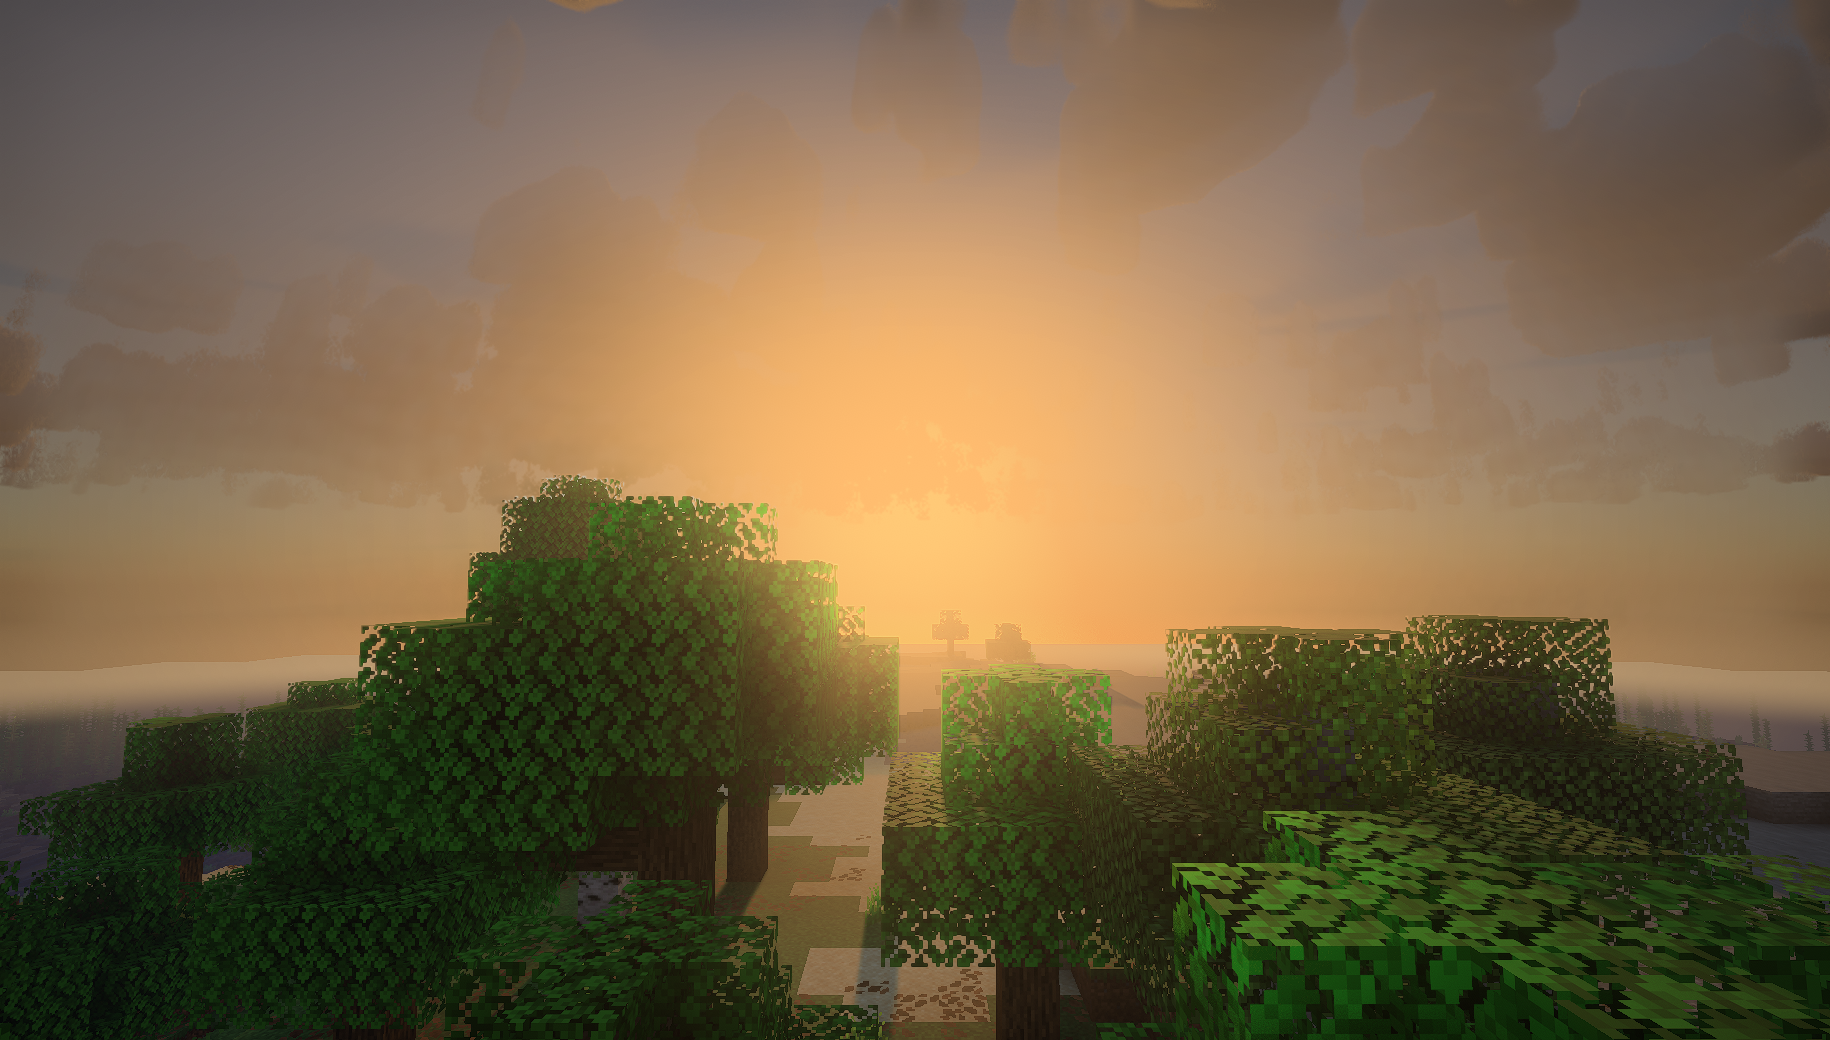
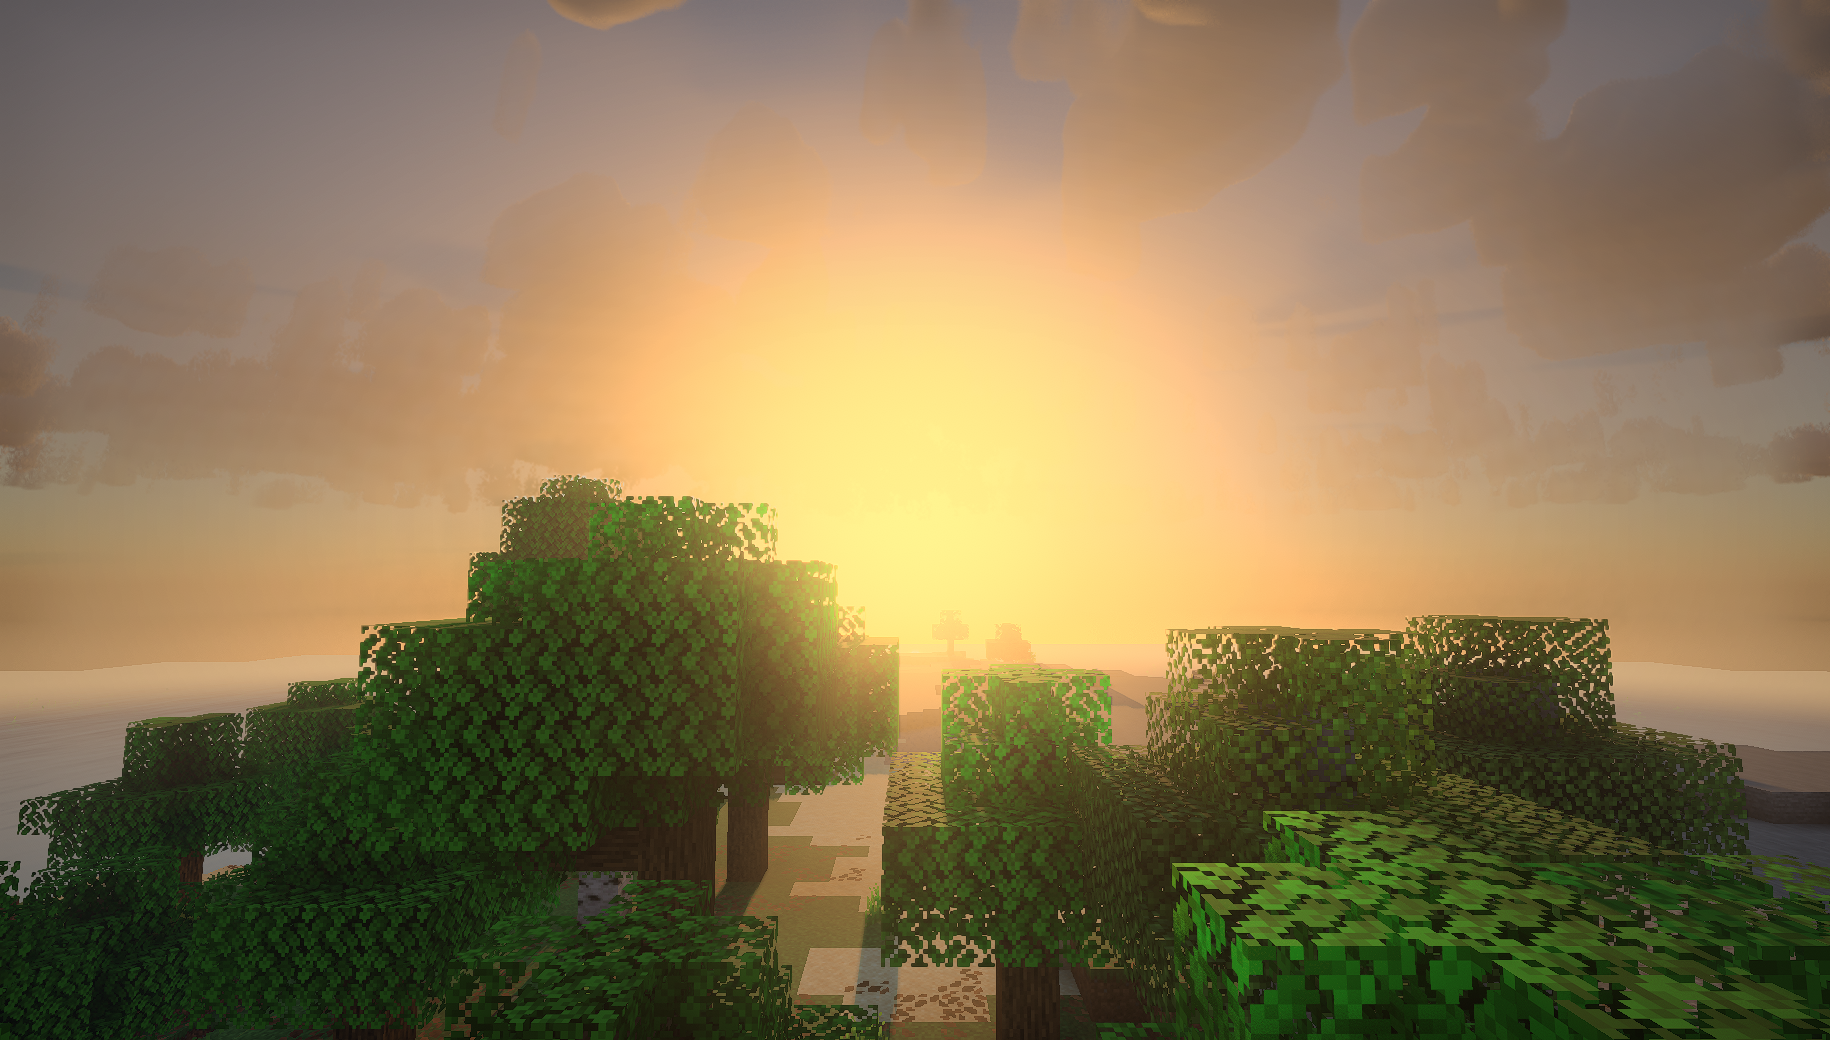
11: exposición calibrada al objetivo de A (día 146,7, noche 17,6) y Reinhard sobre la luminancia
Decisiones de la especificación (0fcece2). Prueba del fílmico con el cenit en
0,4–0,6: sigue desaturado (documentado). Los puntos oscuros del agua son
partículas del juego.

diff --git a/docs/efectos/exposicion-tonemap-gradacion.md b/docs/efectos/exposicion-tonemap-gradacion.md
@@ -22,7 +22,10 @@ en medio el TAA sigue recibiendo la composición en `previous`.
   el primer fotograma o tras una pausa, la medida sin mezclar.
 - **Curva:** `k / ln(L + 1 + c)` con k = 0,2 y c = 0,002: E ≈ 3,2 de día (L medida ≈ 0,06) y tope ≈ 100 cuando L →
   0. Medido en el juego: L ≈ 0,0625 de día y ≈ 0,0094 de noche.
-- **Mezcla con la exposición previa (desviación, duda para A):** la noche medida es solo ~6,6 veces más oscura
+- **Calibración (decisión de A, `0fcece2`):** objetivo de brillo medio de la imagen final, medido como media del
+  cuarto central de la pantalla (por la viñeta): día ≈ 146/255 y noche ≈ 17–18/255. Ajustado con la exposición
+  previa (`OPC_EV_DIA` 3,1 y `OPC_EV_NOCHE` 5,6), que entra en la media: medido **146,7 de día y 17,6 de noche**.
+- **Mezcla con la exposición previa (aceptada por A):** la noche medida es solo ~6,6 veces más oscura
   que el día (la niebla iluminada por la luna y la aurora suben la media), y ninguna curva compresiva puede dar
   más de esa razón de exposición: con la automática sola la noche salía casi negra (E ≈ 18 frente a ≈ 104 de la
   previa analítica, que se había afinado con las referencias). La exposición final es la media en log de la
@@ -44,10 +47,12 @@ tonos → saturación y contraste → sRGB → tramado.
 - **Nitidez** a la manera de CAS (AMD 2019) con cantidad 0,35, **al principio** sobre `previous` en espacio
   comprimido: la pasada final no puede leer su propio resultado, y la imagen es HDR.
 - **Mapeo de tonos:** opción con fílmico (Hejl-Burgess-Dawson, devuelto a lineal para que todos tengan la misma
-  firma), ACES (Narkowicz) y Reinhard sobre el canal máximo. **Por defecto Reinhard (desviación):** el fílmico y
-  el ACES llevan el cielo de día a un blanco grisáceo (su hombro desatura) y la especificación pide que los
-  brillos no salten a blanco; el Reinhard sobre el canal máximo conserva tono y saturación (comparados en la
-  misma vista). Sin AgX.
+  firma), ACES (Narkowicz) y Reinhard extendido **sobre la luminancia**. **Por defecto Reinhard** (aceptado por A
+  como provisional, con la condición de ir sobre la luminancia y que el día no quede plano). Antes iba sobre el
+  canal máximo; sobre la luminancia el cielo sale más azul y luminoso y la hierba más viva (comparados en la misma
+  vista). **Prueba que pidió A** con el fílmico y la exposición bajando hasta que el cenit quedara en 0,4–0,6:
+  con −2 pasos el cenit vale (0,56; 0,61; 0,69), luminancia 0,6, y sigue azul grisáceo, mucho menos saturado que
+  con el Reinhard, y la hierba más oscura: no era solo la exposición, el hombro del fílmico desatura. Sin AgX.
 - **Saturación y contraste** (opciones −1…+1, 0) después del mapeo: `mix(luma, c, 1 + s)` y potencia alrededor de
   0,18 con exponente `1 + 0,5·contraste`.
 - **Tramado** triangular de ±1 nivel con dos canales del ruido azul.

diff --git a/docs/observaciones-del-gestor.md b/docs/observaciones-del-gestor.md
@@ -115,3 +115,10 @@ Ventana bien cerrada. Las tres desviaciones del 10–11 (exposición mezclada, R
 al cuadrado) están con A: dejarlas así hasta que responda. La cuarta vista de `hoja-imagen.png` estaba negra (era
 la casilla vacía de una hoja 2×2 con tres capturas): rehecha con la cueva construida con `fill`, como sugirió el
 gestor.
+
+## 2026-11-02 — revisión de 05eba4f y 57da59b
+
+- Hoja del agua bien. Puntitos oscuros en `hoja-agua.png`: comprobado que son partículas del juego.
+- Decisiones de A (`0fcece2`): exposición con la media en log aceptada, objetivo día ≈ 146/255 y noche ≈ 17–18/255
+  medido en el centro (hecho: 146,7 y 17,6); Reinhard provisional sobre la luminancia (hecho) y prueba del fílmico
+  con el cenit en 0,4–0,6 (hecha: sigue desaturado); bloom de niebla al cuadrado aceptado.

diff --git a/docs/efectos/agua.md b/docs/efectos/agua.md
@@ -64,6 +64,13 @@ que el motor dibuja a media resolución).
 - **No visto:** la ventana de Snell desde abajo (mirando arriba solo se distingue el resplandor), los rayos de luz
   bajo el agua, la lluvia sobre el agua, el agua en cuevas, la detección del cielo en el espejo de noche.
 
+## Puntos oscuros en las capturas
+
+Los cuadraditos oscuros de unos píxeles, azulados, que se ven en el agua (observación del gestor) son
+**partículas del juego** (las del agua), no píxeles inválidos del pack: con `particles` al mínimo desaparece el del
+centro de la pantalla, y son cuadrados nítidos de color uniforme (un NaN sería un píxel suelto que el TAA
+emborronaría).
+
 ## Dato del motor
 
 `horizon-ctl tp` mueve al jugador solo en el cliente y el servidor lo devuelve a los pocos segundos: las escenas
